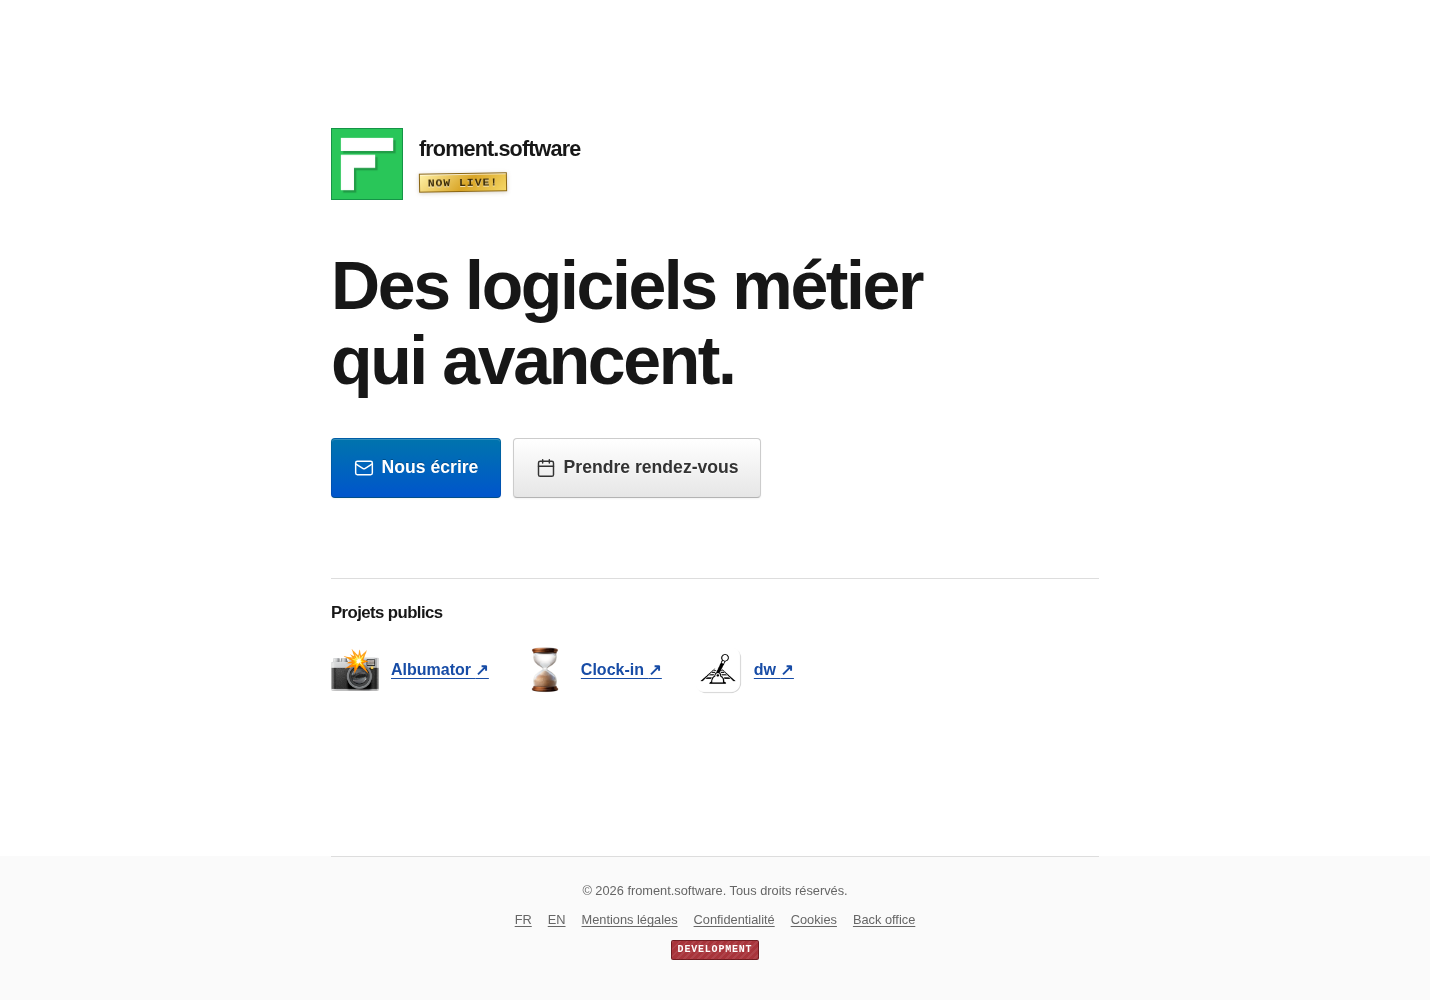
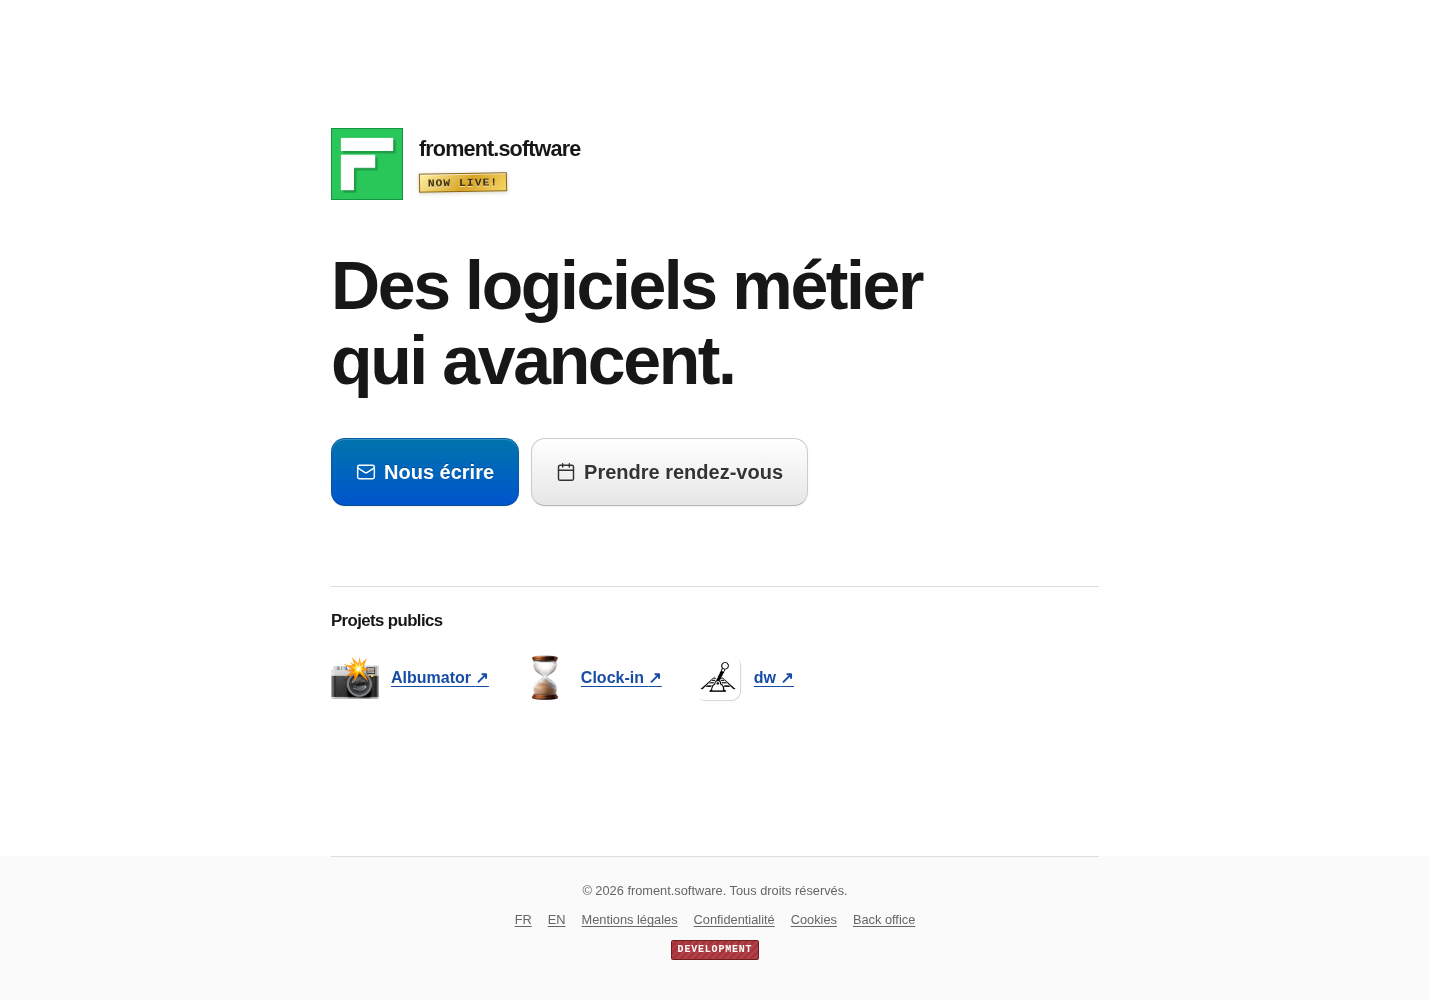
Agrandir les boutons de contact de la vitrine

Changed region(s): [[0.2188, 0.589, 0.5625, 0.713], [0.2188, 0.434, 0.5625, 0.527]]

diff --git a/packages/web/src/app/pages/home/home.component.scss b/packages/web/src/app/pages/home/home.component.scss
@@ -57,9 +57,10 @@ h2 {
 }
 
 .contact-links a[appLinkButton] {
-  min-height: 3.75rem;
-  padding: 0.85rem 1.35rem;
-  font-size: 1.1rem;
+  min-height: 4.25rem;
+  padding: 0.9rem 1.5rem;
+  border-radius: 0.875rem;
+  font-size: 1.25rem;
 }
 
 section {
